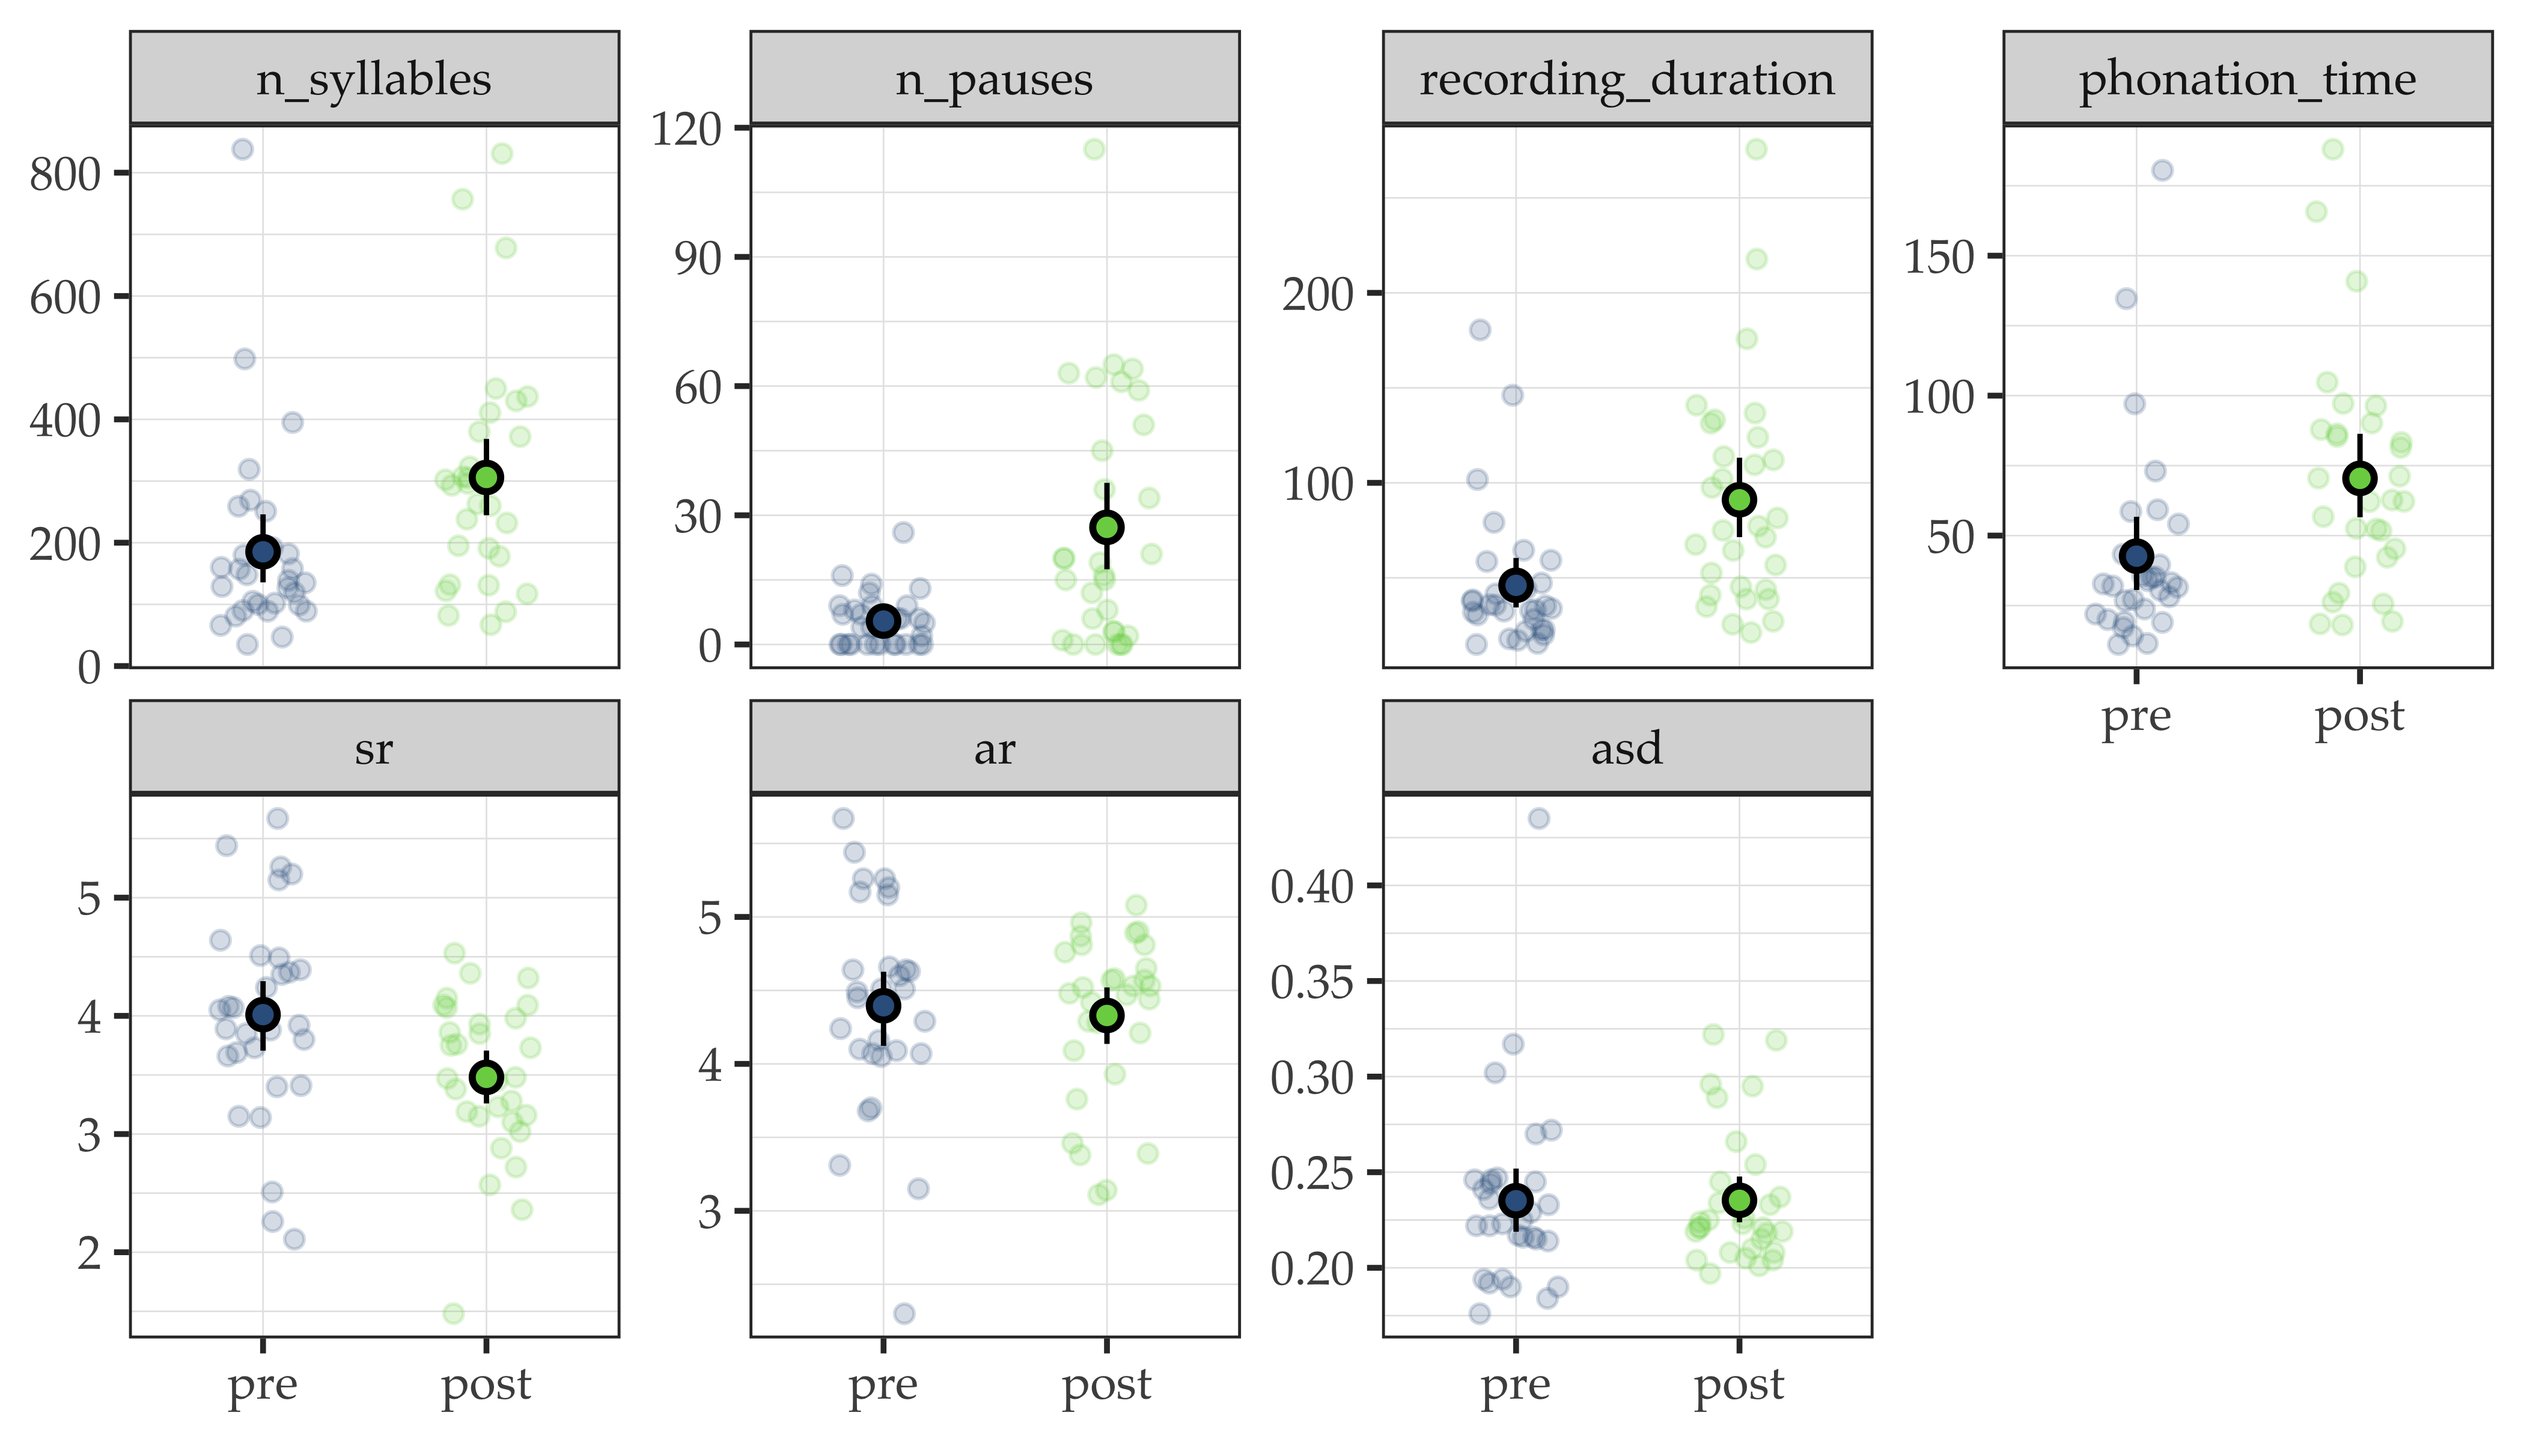
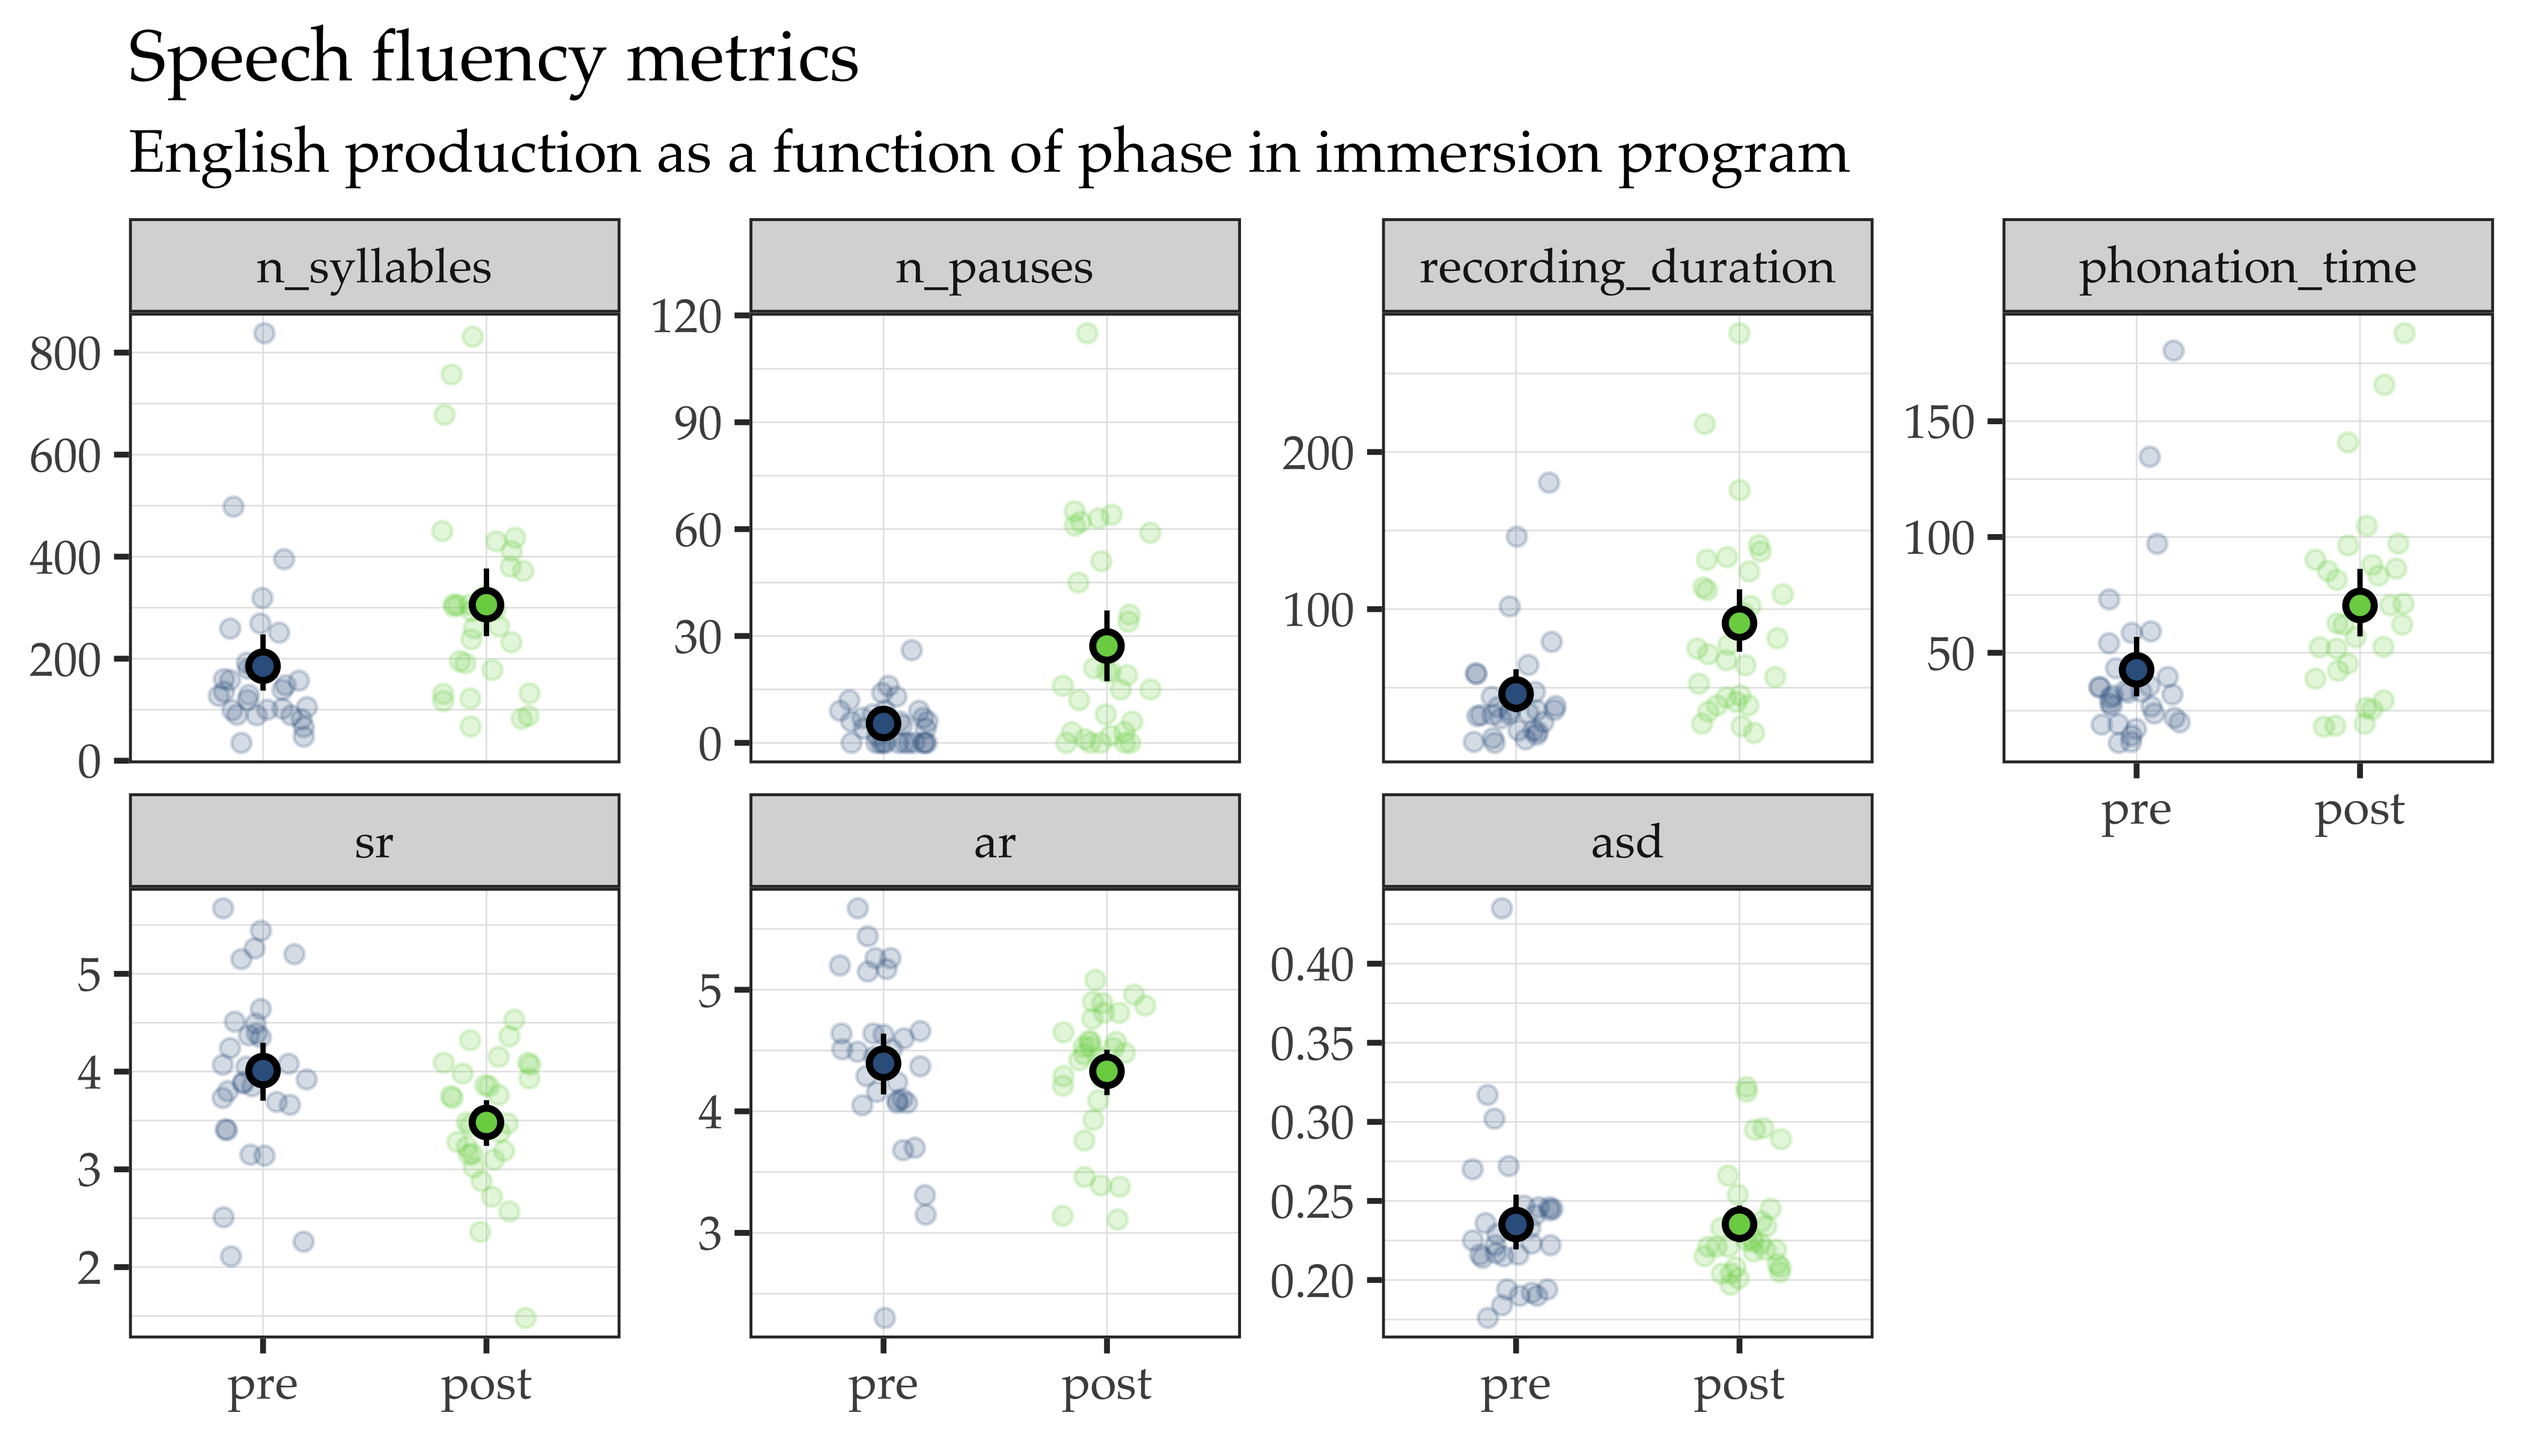
add title subtitle

diff --git a/scripts/r/03_speech_rate_analysis.html b/scripts/r/03_speech_rate_analysis.html
@@ -179,22 +179,35 @@ $ val      &lt;dbl&gt; 411.000, 36.000, 109.500, 85.370, 3.750, 4.810, 0.208, 25
 </div>
 </section>
 </section>
-<section id="metrics" class="level1">
-<h1>Metrics</h1>
+<section id="design" class="level1">
+<h1>Design</h1>
+<section id="variables" class="level2">
+<h2 class="anchored" data-anchor-id="variables">Variables</h2>
 <ul>
-<li>n_syllables: number of syllables</li>
+<li>id: unique participant identification string</li>
+<li>phase: stage of data collection (pre, post)</li>
+<li>year: year of immersion program</li>
+<li>language: language spoken during interview (Spanish, English)</li>
+</ul>
+</section>
+<section id="metrics" class="level2">
+<h2 class="anchored" data-anchor-id="metrics">Metrics</h2>
+<ul>
+<li>n_syllables: number of syllables produced</li>
 <li>n_pauses: number of pauses</li>
 <li>recording_duration: total time (s) of recording</li>
-<li>phonation_time: speaking time (s)</li>
+<li>phonation_time: total speaking time (s)</li>
 <li>sr: speech rate (n_syllables / recording_duration)</li>
 <li>ar: articulation rate (n_syllables / phonation_time)</li>
 <li>asd: average syllable duration (phonation_time / n_syllables)</li>
 </ul>
 </section>
+</section>
 <section id="exploratory-plots" class="level1">
 <h1>Exploratory plots</h1>
-<section id="spanish" class="level2">
-<h2 class="anchored" data-anchor-id="spanish">Spanish</h2>
+<section id="spanish-interview" class="level2">
+<h2 class="anchored" data-anchor-id="spanish-interview">Spanish interview</h2>
+<p>OPI-style oral assessment in which participants are asked a range of questions.</p>
 <div class="cell">
 <div class="sourceCode cell-code" id="cb5"><pre class="sourceCode r code-with-copy"><code class="sourceCode r"><span id="cb5-1"><a href="#cb5-1" aria-hidden="true" tabindex="-1"></a>dat <span class="sc">|&gt;</span> </span>
 <span id="cb5-2"><a href="#cb5-2" aria-hidden="true" tabindex="-1"></a>  <span class="fu">filter</span>(language <span class="sc">==</span> <span class="st">"Spanish"</span>) <span class="sc">|&gt;</span> </span>
@@ -212,7 +225,11 @@ $ val      &lt;dbl&gt; 411.000, 36.000, 109.500, 85.370, 3.750, 4.810, 0.208, 25
 <span id="cb5-14"><a href="#cb5-14" aria-hidden="true" tabindex="-1"></a>  ) <span class="sc">+</span> </span>
 <span id="cb5-15"><a href="#cb5-15" aria-hidden="true" tabindex="-1"></a>  <span class="fu">scale_fill_viridis_d</span>(<span class="at">option =</span> <span class="st">"D"</span>, <span class="at">begin =</span> <span class="fl">0.3</span>, <span class="at">end =</span> <span class="fl">0.8</span>) <span class="sc">+</span> </span>
 <span id="cb5-16"><a href="#cb5-16" aria-hidden="true" tabindex="-1"></a>  <span class="fu">scale_color_viridis_d</span>(<span class="at">option =</span> <span class="st">"D"</span>, <span class="at">begin =</span> <span class="fl">0.3</span>, <span class="at">end =</span> <span class="fl">0.8</span>) <span class="sc">+</span> </span>
-<span id="cb5-17"><a href="#cb5-17" aria-hidden="true" tabindex="-1"></a>  <span class="fu">labs</span>(<span class="at">x =</span> <span class="cn">NULL</span>, <span class="at">y =</span> <span class="cn">NULL</span>) </span></code><button title="Copy to Clipboard" class="code-copy-button"><i class="bi"></i></button></pre></div>
+<span id="cb5-17"><a href="#cb5-17" aria-hidden="true" tabindex="-1"></a>  <span class="fu">labs</span>(</span>
+<span id="cb5-18"><a href="#cb5-18" aria-hidden="true" tabindex="-1"></a>    <span class="at">title =</span> <span class="st">"Speech fluency metrics"</span>, </span>
+<span id="cb5-19"><a href="#cb5-19" aria-hidden="true" tabindex="-1"></a>    <span class="at">subtitle =</span> <span class="st">"Spanish production as a function of phase in immersion program"</span>, </span>
+<span id="cb5-20"><a href="#cb5-20" aria-hidden="true" tabindex="-1"></a>    <span class="at">x =</span> <span class="cn">NULL</span>, <span class="at">y =</span> <span class="cn">NULL</span></span>
+<span id="cb5-21"><a href="#cb5-21" aria-hidden="true" tabindex="-1"></a>  ) </span></code><button title="Copy to Clipboard" class="code-copy-button"><i class="bi"></i></button></pre></div>
 <div class="cell-output-display">
 <div>
 <figure class="figure">
@@ -224,6 +241,7 @@ $ val      &lt;dbl&gt; 411.000, 36.000, 109.500, 85.370, 3.750, 4.810, 0.208, 25
 </section>
 <section id="english" class="level2">
 <h2 class="anchored" data-anchor-id="english">English</h2>
+<p>Participants respond to question “what does learning another language mean to you?”</p>
 <div class="cell">
 <div class="sourceCode cell-code" id="cb6"><pre class="sourceCode r code-with-copy"><code class="sourceCode r"><span id="cb6-1"><a href="#cb6-1" aria-hidden="true" tabindex="-1"></a>dat <span class="sc">|&gt;</span> </span>
 <span id="cb6-2"><a href="#cb6-2" aria-hidden="true" tabindex="-1"></a>  <span class="fu">filter</span>(language <span class="sc">==</span> <span class="st">"English"</span>) <span class="sc">|&gt;</span> </span>
@@ -241,7 +259,12 @@ $ val      &lt;dbl&gt; 411.000, 36.000, 109.500, 85.370, 3.750, 4.810, 0.208, 25
 <span id="cb6-14"><a href="#cb6-14" aria-hidden="true" tabindex="-1"></a>  ) <span class="sc">+</span> </span>
 <span id="cb6-15"><a href="#cb6-15" aria-hidden="true" tabindex="-1"></a>  <span class="fu">scale_fill_viridis_d</span>(<span class="at">option =</span> <span class="st">"D"</span>, <span class="at">begin =</span> <span class="fl">0.3</span>, <span class="at">end =</span> <span class="fl">0.8</span>) <span class="sc">+</span> </span>
 <span id="cb6-16"><a href="#cb6-16" aria-hidden="true" tabindex="-1"></a>  <span class="fu">scale_color_viridis_d</span>(<span class="at">option =</span> <span class="st">"D"</span>, <span class="at">begin =</span> <span class="fl">0.3</span>, <span class="at">end =</span> <span class="fl">0.8</span>) <span class="sc">+</span> </span>
-<span id="cb6-17"><a href="#cb6-17" aria-hidden="true" tabindex="-1"></a>  <span class="fu">labs</span>(<span class="at">x =</span> <span class="cn">NULL</span>, <span class="at">y =</span> <span class="cn">NULL</span>) </span></code><button title="Copy to Clipboard" class="code-copy-button"><i class="bi"></i></button></pre></div>
+<span id="cb6-17"><a href="#cb6-17" aria-hidden="true" tabindex="-1"></a>  <span class="fu">labs</span>(<span class="at">x =</span> <span class="cn">NULL</span>, <span class="at">y =</span> <span class="cn">NULL</span>) <span class="sc">+</span> </span>
+<span id="cb6-18"><a href="#cb6-18" aria-hidden="true" tabindex="-1"></a>  <span class="fu">labs</span>(</span>
+<span id="cb6-19"><a href="#cb6-19" aria-hidden="true" tabindex="-1"></a>    <span class="at">title =</span> <span class="st">"Speech fluency metrics"</span>, </span>
+<span id="cb6-20"><a href="#cb6-20" aria-hidden="true" tabindex="-1"></a>    <span class="at">subtitle =</span> <span class="st">"English production as a function of phase in immersion program"</span>, </span>
+<span id="cb6-21"><a href="#cb6-21" aria-hidden="true" tabindex="-1"></a>    <span class="at">x =</span> <span class="cn">NULL</span>, <span class="at">y =</span> <span class="cn">NULL</span></span>
+<span id="cb6-22"><a href="#cb6-22" aria-hidden="true" tabindex="-1"></a>  ) </span></code><button title="Copy to Clipboard" class="code-copy-button"><i class="bi"></i></button></pre></div>
 <div class="cell-output-display">
 <div>
 <figure class="figure">
